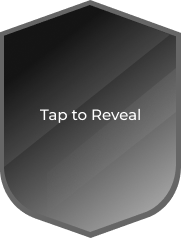
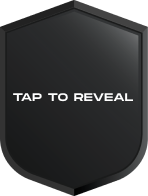
Asset change and added more information

diff --git a/data/index.js b/data/index.js
@@ -98,6 +98,7 @@ export const tokenDrawData = [
     positions: ['SF', 'C'],
     grad1: 'indigo-darkblue',
     grad2: 'indigo-darkbluegrad',
+    average: '81',
   },
   {
     id: 2,
@@ -105,7 +106,8 @@ export const tokenDrawData = [
     apiID: "0",
     name: "Bryn Forbes",
     symbol: "BRF",
-    contractAddr: "terra1jlazuamj9gcqfjw8dre8jc0rttxyswgjux8slt"
+    contractAddr: "terra1jlazuamj9gcqfjw8dre8jc0rttxyswgjux8slt",
+    average: '82',
   },
   {
     id: 3,
@@ -113,7 +115,8 @@ export const tokenDrawData = [
     apiID: "0",
     name: "Taurean Prince",
     symbol: "TRP",
-    contractAddr: "terra1jlazuamj9gcqfjw8dre8jc0rttxyswgjux8slt"
+    contractAddr: "terra1jlazuamj9gcqfjw8dre8jc0rttxyswgjux8slt",
+    average: '83',
   },
   {
     id: 4,
@@ -128,6 +131,7 @@ export const tokenDrawData = [
     positions: ['PG', 'SG'],
     grad1: 'indigo-purple',
     grad2: 'indigo-purplegrad',
+    average: '84',
   },
   {
     id: 5,
@@ -142,6 +146,7 @@ export const tokenDrawData = [
     positions: ['PG', 'SG'],
     grad1: 'indigo-blue',
     grad2: 'indigo-bluegrad',
+    average: '85',
   },
 
 ]

diff --git a/pages/TokenDrawPage/index.js b/pages/TokenDrawPage/index.js
@@ -63,7 +63,7 @@ const TokenDrawPage = () => {
                     {loading ? (
                         <LoadingPageDark/>
             ) : (
-                <div className="" style={{
+                <div className="pb-40" style={{
                         backgroundImage: `url('../images/BackgroundMarket.PNG')`,
                         backgroundRepeat: 'no-repeat',
                         backgroundSize:'100% auto',
@@ -78,7 +78,7 @@ const TokenDrawPage = () => {
                                             assets.map(function (i,key) 
                                                 {
                                                     return (
-                                                        <div className="flex px-10 py-10">
+                                                        <div className="flex px-14 py-10">
                                                         <div className="px-10 py-10" onClick={() => {
                                                             changecard(key)}}>
                                                                 

diff --git a/components/TokenComponent.js b/components/TokenComponent.js
@@ -22,12 +22,18 @@ const TokenComponent = (props) =>{
                         width={150}
                         height={210}
                     />
-                    <div className="flex text-sm flex-col font-thin">
+                    <div className="flex whitespace-nowrap text-sm flex-col font-thin">
                         <div className="mt-2">
                             #{tokenDrawData[playerID-1].id}/25000
                         </div>
-                        <div className="font-bold mt-2">
+                        <div className="font-black mt-2">
                             {tokenDrawData[playerID-1].name.toUpperCase()}
+                        </div>
+                        <div className="mt-4">
+                            AVERAGE SCORE
+                        </div>
+                        <div className="font-black mt-2">
+                            {tokenDrawData[playerID-1].average}
                         </div>
                     </div>
             </div>
